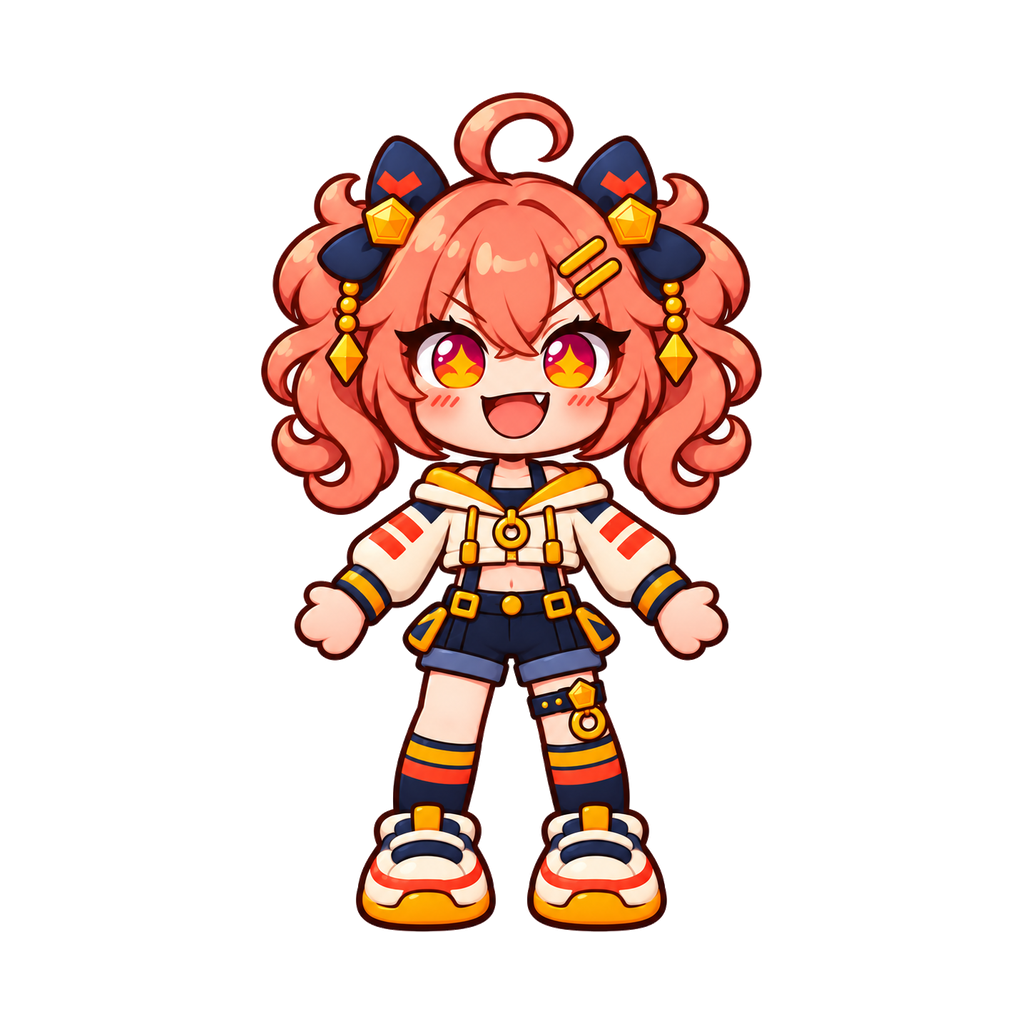
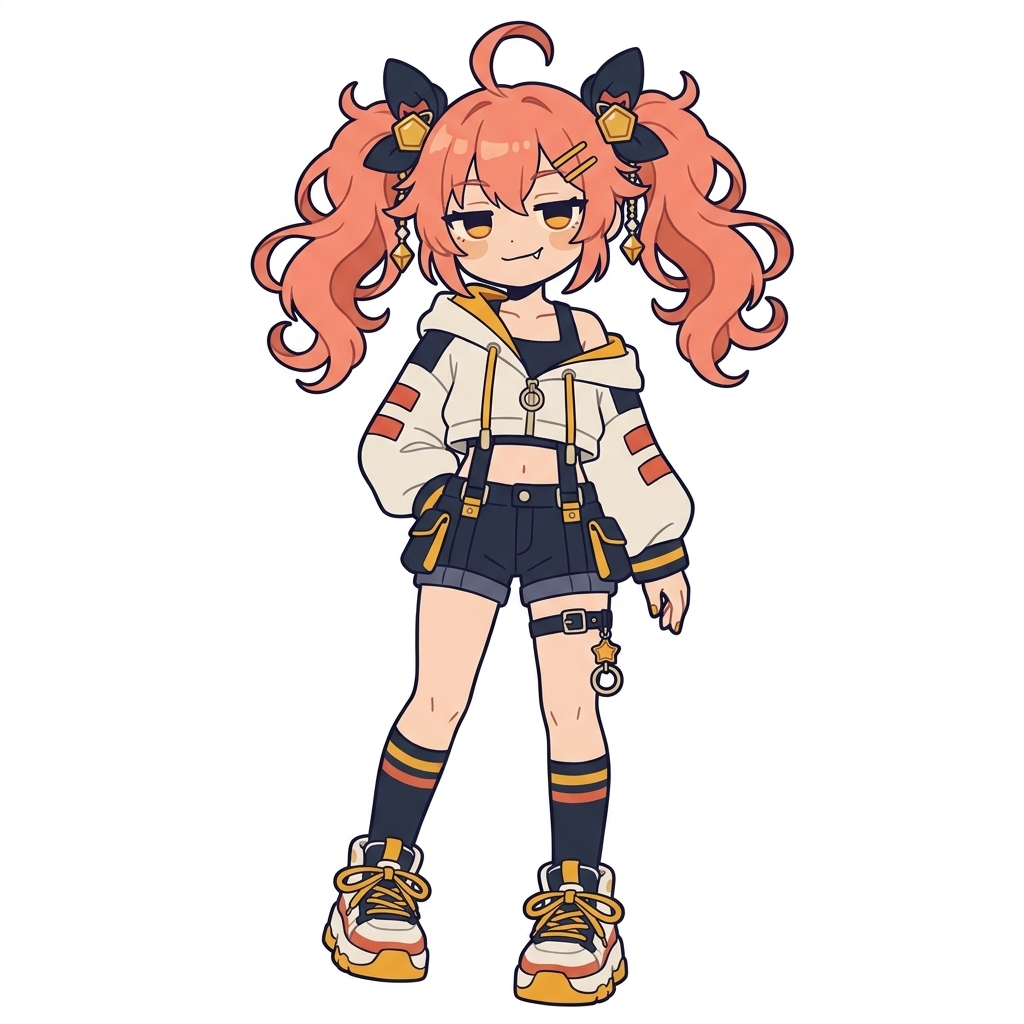
docs(companion-pet): replace Stage 1-B standing art with Style D flat master
Replace the Stage 1-B standing SD master with the owner-selected Style D (Lo-Fi Indie Zine Flat) illustration and align the companion-pet rigging manual accordingly.

## AI Context
- Owner selected Style D (Lo-Fi Indie Zine Flat: monoline dark-ink outlines, flat unshaded risograph-restrained muted palette, ~3.0-head proportion, natural laid-back contrapposto stance) to replace the prior glossy symmetric A-pose Stage 1-B standing master.
- Updated ai-docs/manuals/companion-pet-rigging.md to record Style D as the canonical Stage 1-B standing official art master and mark earlier pose references as pre-Style-D revision pending refresh or SVG validation.
- Docs/assets-only update; zero cross-version runtime surface touched (compat tier: N/A).

Changed region(s): [[0.2188, 0.0, 0.7812, 1.0]]

diff --git a/ai-docs/manuals/companion-pet-rigging.md b/ai-docs/manuals/companion-pet-rigging.md
@@ -12,7 +12,7 @@ Asset production follows three ordered stages so every character pack plugs clea
 
 1. **Stage 1 — Concept & Static SD Reference Lock (Complete)**
    - **Step 1-A (Character Concept — Locked):** Lock character silhouette, palette, and personality via clean **Front + Back full-body turnaround illustrations** (no text boxes or cluttered sheet chrome). Locked default mascot turnaround: `ai-docs/assets/companion-pet/mascot-stage1a-turnaround.png` (see `## Locked Default Mascot (Stage 1-A & 1-B)` below).
-   - **Step 1-B (Target SD Style, Pose References & Engine-Shared Props — Locked):** Translate the approved character into final target **compact ~2.0-head SD/chibi** static references (`1:1` square canvas, ~44% head-to-height ratio, compact vertical silhouette `aspect ~0.60`, warm thick cocoa-brown outer outlines, glossy 2-step cel shading + soft cheek blush, simplified mitten paws, lace-free chunky sneakers, clear arm/leg cutout gaps) for every required/selected pose family plus engine-shared props. Never down-scale a non-SD illustration into an SD look.
+   - **Step 1-B (Target Flat SD Style, Pose References & Engine-Shared Props — Active Revision):** Translate the approved character into final target **Lo-Fi Indie Zine Flat** static references (`1:1` square canvas, pure `#FFFFFF` background, ~3.0-head stylized mini-character proportion, `aspect ~0.55`, clean monoline dark-ink outlines, flat unshaded risograph-restrained muted palette, simplified cool half-almond eyes, natural relaxed non-A-pose stance) for every required/selected pose family plus engine-shared props. Never down-scale a non-SD illustration into an SD look.
 2. **Stage 2 — Scenario, Pose-Family, Prop & Socket Contract (Locked)**
    - Governed by this manual: declares the canonical v1 scenarios, pose families with automatic fallbacks, engine-shared interactive props, attachment sockets, expressions, and passive gaze rules.
 3. **Stage 3 — Same-Canvas Cutout Dissection Pipeline (Active)**
@@ -21,8 +21,8 @@ Asset production follows three ordered stages so every character pack plugs clea
 ## Locked Default Mascot (Stage 1-A & 1-B)
 
 - **Canonical Turnaround (Stage 1-A):** `ai-docs/assets/companion-pet/mascot-stage1a-turnaround.png` (`1536 × 1024`, Front + Back full-body turnaround, IP-clean original Werkschaft mascot).
-- **Canonical Standing SD Master (Stage 1-B — Family A):** `ai-docs/assets/companion-pet/mascot-stage1b-standing-sd.png` (`1024 × 1024`, pure `#FFFFFF` background, ~44% head-to-height compact 2.0-head proportion, `aspect ~0.60`, warm thick cocoa-brown outline, glossy 2-step cel shading + soft cheek blush, rounded mitten paws, simplified lace-free chunky sneakers, paper-doll cutout arm/leg separation). Use this image as the visual style/proportion anchor for all pose families, engine-shared props, and BYO local packs.
-- **Locked Stage 1-B Pose References (`1024 × 1024`, pure `#FFFFFF`):**
+- **Canonical Standing Official Master (Stage 1-B — Family A, Style D Lo-Fi Indie Zine Flat):** `ai-docs/assets/companion-pet/mascot-stage1b-standing-sd.png` (`1024 × 1024`, pure `#FFFFFF` background, ~3.0-head stylized mini-character proportion, `aspect ~0.55`, clean monoline dark-ink outlines, flat unshaded risograph-restrained muted palette, cool half-almond amber eyes with tiny fang smirk, laid-back casual contrapposto stance with right hand tucked behind hip). Use this image as the visual style/proportion anchor for all pose families, SVG/paper-doll rigs, engine-shared props, and BYO local packs.
+- **Prior Stage 1-B Pose References (Pre-Style-D Revision, Pending Style-D Refresh / SVG Validation, `1024 × 1024`, pure `#FFFFFF`):**
   - `W. Side-Walk` (3/4-side energetic walk facing right, flipped via `scaleX(±1)`): `ai-docs/assets/companion-pet/mascot-stage1b-pose-w-sidewalk.png`
   - `B. Typing / Desk` (seated forward lean, right-way-around Werkschaft keyboard with rear pentagon bezel facing viewer and golden spacebar nearest her wrists, focused tongue-out expression): `ai-docs/assets/companion-pet/mascot-stage1b-pose-b-typing.png`
   - `C. Perched / Sit` (front seated dangling legs on invisible ledge): `ai-docs/assets/companion-pet/mascot-stage1b-pose-c-perched.png`
